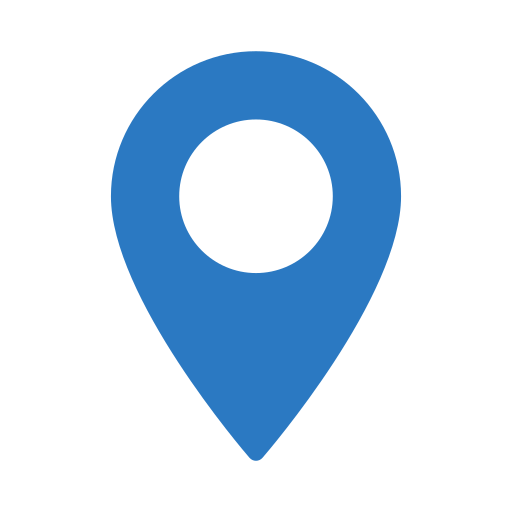
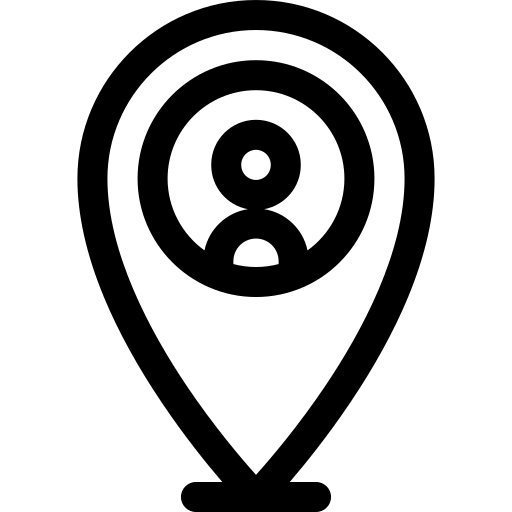
implementando cosas

diff --git a/EcoApp-Tailwind/src/components/MapServices.tsx b/EcoApp-Tailwind/src/components/MapServices.tsx
@@ -11,6 +11,7 @@ import wastecenter from '../assets/LogoSolo.png'; // Icono para "Textile contain
 import othersIcon from '../assets/camion-de-la-basura.png'; // Icono para "Others"
 import textile from '../assets/ropa.png'; // Icono para "Textile container"
 import personIcon from '../assets/personIcon.png';
+import selected from '../assets/selected.png';
 
 const getIconByType = (type: string) => {
   const icons: Record<string, L.Icon> = {
@@ -40,6 +41,12 @@ const getIconByType = (type: string) => {
     }),
     person: L.icon({
       iconUrl: personIcon, // Asegúrate de tener este icono
+      iconSize: [40, 40],
+      iconAnchor: [16, 32],
+      popupAnchor: [0, -32],
+    }), 
+    selected: L.icon({
+      iconUrl: selected, // Asegúrate de tener este icono
       iconSize: [40, 40],
       iconAnchor: [16, 32],
       popupAnchor: [0, -32],
@@ -74,6 +81,43 @@ function MapClickHandler({ onLocationSelect }: { onLocationSelect?: (lat: number
 export function MapServices({ position, locationMode, onLocationSelect }: MapProps) {
   const [mapPoints, setMapPoints] = useState<any[]>([]); // Estado para almacenar los puntos del mapa
 
+  const [current, setCurrent] = useState<[number, number] | null>(null);
+
+  const [locationError, setLocationError] = useState<string | null>(null);
+
+  const defaultPosition: [number, number] = [41.15612, 1.10687];
+
+  useEffect(() => {
+    if (locationMode === 'current') {
+      if (!navigator.geolocation) {
+        setLocationError('Geolocation is not supported by your browser');
+        setCurrent(defaultPosition);
+        return;
+      }
+
+      setLocationError(null);
+      navigator.geolocation.getCurrentPosition(
+        (pos) => {
+          setCurrent([pos.coords.latitude, pos.coords.longitude]);
+          setLocationError(null);
+        },
+        (error) => {
+          console.error('Geolocation error:', error);
+          setLocationError(
+            error.code === 1
+              ? 'Location access denied. Please enable location services.'
+              : 'Unable to get your location. Using default position.'
+          );
+          setCurrent(defaultPosition);
+        },
+        {
+          enableHighAccuracy: true,
+          timeout: 5000,
+          maximumAge: 0
+        }
+      );
+    }
+  }, [locationMode]);
   // BACKEND
   useEffect(() => {
     fetch('http://localhost:8080/mappoints/types')
@@ -133,7 +177,7 @@ export function MapServices({ position, locationMode, onLocationSelect }: MapPro
       />
       <Polygon positions={reusPerimeter} color="blue" />
       {position && (
-        <Marker position={position} icon={getIconByType('person')}>
+        <Marker position={position} icon={getIconByType('selected')}>
           <Popup>
             <p>Selected location</p>
             <a
@@ -141,11 +185,28 @@ export function MapServices({ position, locationMode, onLocationSelect }: MapPro
               target="_blank"
               rel="noopener noreferrer"
             >
-            Google Maps
+              Google Maps
             </a>
           </Popup>
         </Marker>
       )}
+
+      {/* Marcador de la ubicación actual */}
+      {position && (
+        <Marker position={position} icon={getIconByType('person')}>
+          <Popup>
+            <p>Current location</p>
+            <a
+              href={`https://www.google.com/maps?q=${position[0]},${position[1]}`}
+              target="_blank"
+              rel="noopener noreferrer"
+            >
+              Google Maps
+            </a>
+          </Popup>
+        </Marker>
+      )}
+
       {locationMode === 'map' && <MapClickHandler onLocationSelect={onLocationSelect} />}
       {mapPoints.map((point) => (
         <Marker key={point.id} position={[point.latitude, point.longitude]} icon={getIconByType(point.typePoint.name)}>
